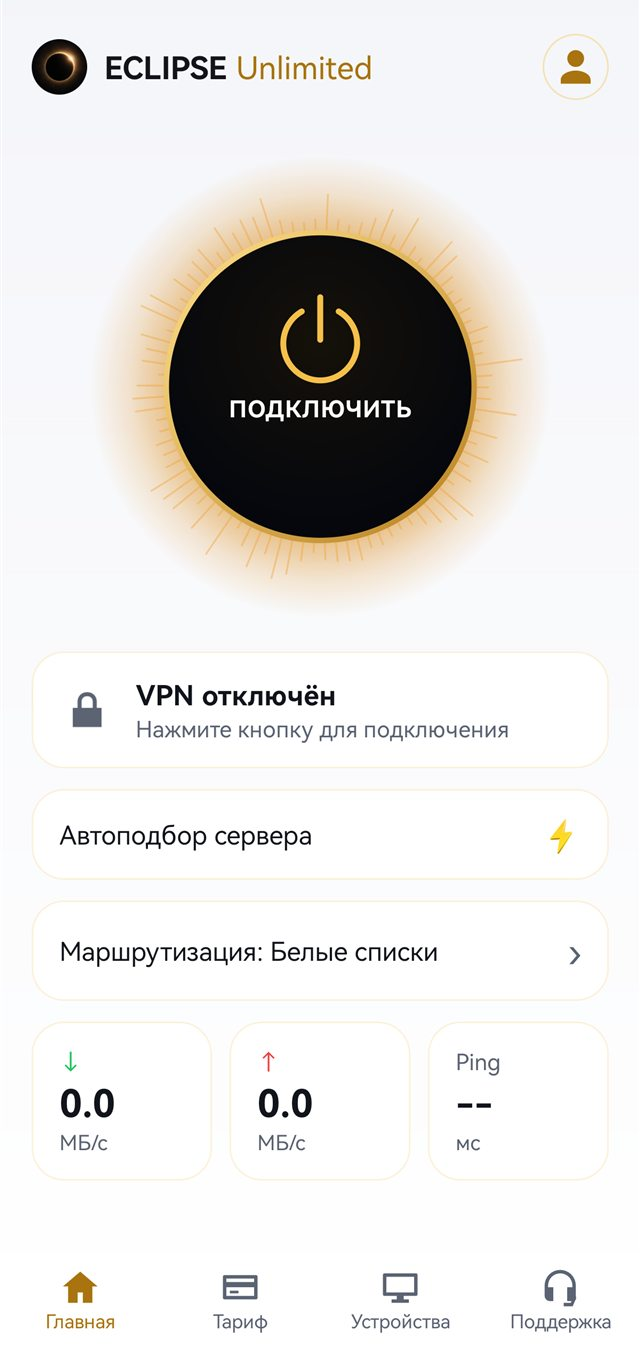
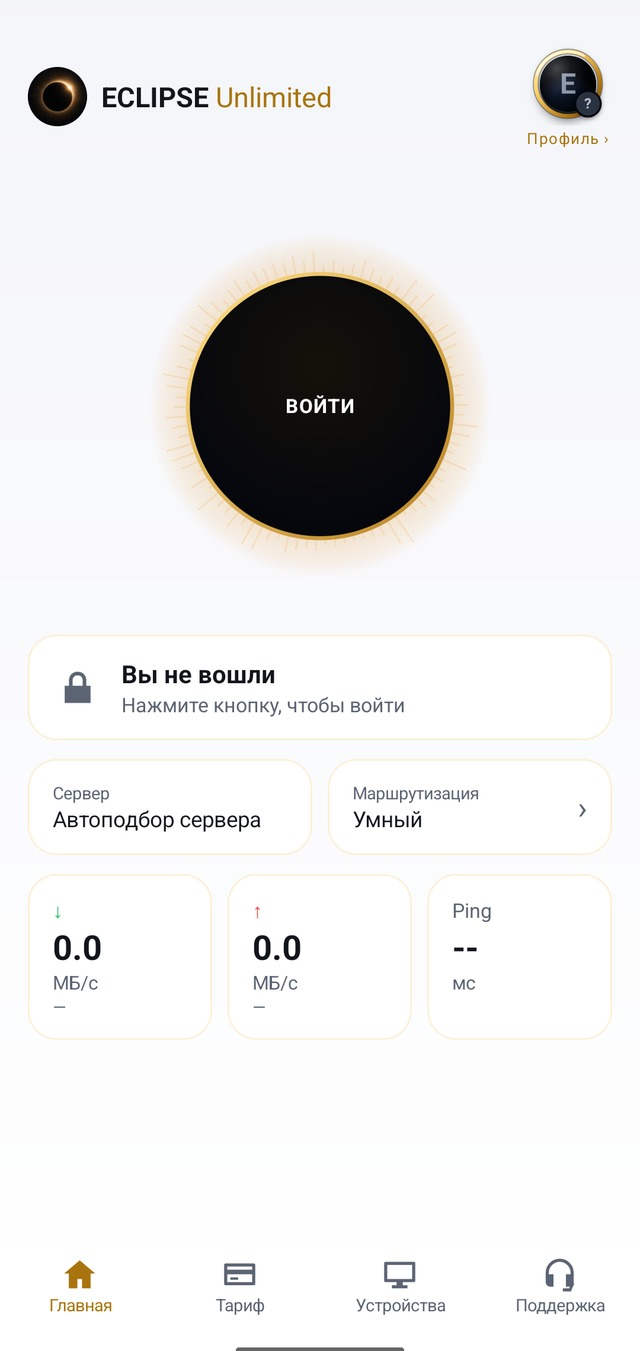
site: новые скриншоты приложения 2.17 без персональных данных
Обновлены home/connected/modes/light/login: новый профиль, протокол подключения, светлая тема; у подключённого экрана убран личный аватар. Добавлен подзаголовок секции скриншотов и обновлена подпись connected; cache-busting ?v=2170.

diff --git a/bot/webapp/templates/app.html b/bot/webapp/templates/app.html
@@ -760,7 +760,7 @@ a:focus-visible, summary:focus-visible, button:focus-visible {
             <div class="hero-glow-ring" aria-hidden="true"></div>
             <div class="hero-glow-ring ring2" aria-hidden="true"></div>
             <div class="phone">
-                <img src="/static/app-preview/connected.jpg" alt="Экран приложения ECLIPSE Unlimited с активным VPN-подключением">
+                <img src="/static/app-preview/connected.jpg?v=2170" alt="Экран приложения ECLIPSE Unlimited с активным VPN-подключением">
             </div>
             <div class="float-chip chip-1">
                 <svg width="16" height="16" viewBox="0 0 24 24" fill="none" stroke="#57d364" stroke-width="2.2" stroke-linecap="round" stroke-linejoin="round" aria-hidden="true"><path d="M13 2 3 14h7l-1 8 10-12h-7l1-8z"/></svg>
@@ -891,6 +891,7 @@ a:focus-visible, summary:focus-visible, button:focus-visible {
             <div>
                 <div class="section-tag reveal">Приложение</div>
                 <h2 class="section-title reveal">Посмотрите, как оно выглядит</h2>
+                <p class="section-sub reveal">Новый профиль, настройки по группам и протокол подключения прямо на главном экране.</p>
             </div>
             <div class="shots-nav reveal">
                 <button type="button" id="shotsPrev" aria-label="Предыдущий скриншот">‹</button>
@@ -898,11 +899,11 @@ a:focus-visible, summary:focus-visible, button:focus-visible {
             </div>
         </div>
         <div class="shots reveal" role="region" aria-roledescription="карусель" aria-label="Скриншоты приложения" tabindex="0">
-            <figure class="shot"><img src="/static/app-preview/home.jpg" alt="Главный экран приложения" loading="lazy"><figcaption>Скорость и пинг всегда на виду</figcaption></figure>
-            <figure class="shot"><img src="/static/app-preview/connected.jpg" alt="Экран подключённого VPN" loading="lazy"><figcaption>Включается одной кнопкой</figcaption></figure>
-            <figure class="shot"><img src="/static/app-preview/modes.jpg" alt="Выбор маршрутизации" loading="lazy"><figcaption>Маршрутизация под вашу сеть</figcaption></figure>
-            <figure class="shot"><img src="/static/app-preview/light.jpg" alt="Светлая тема приложения" loading="lazy"><figcaption>Светлая и тёмная тема</figcaption></figure>
-            <figure class="shot"><img src="/static/app-preview/login.jpg" alt="Вход в приложение" loading="lazy"><figcaption>Вход через Google, Яндекс или телефон</figcaption></figure>
+            <figure class="shot"><img src="/static/app-preview/home.jpg?v=2170" alt="Главный экран приложения" loading="lazy"><figcaption>Скорость и пинг всегда на виду</figcaption></figure>
+            <figure class="shot"><img src="/static/app-preview/connected.jpg?v=2170" alt="Экран подключённого VPN с протоколом" loading="lazy"><figcaption>Подключение и протокол — на виду</figcaption></figure>
+            <figure class="shot"><img src="/static/app-preview/modes.jpg?v=2170" alt="Выбор маршрутизации" loading="lazy"><figcaption>Маршрутизация под вашу сеть</figcaption></figure>
+            <figure class="shot"><img src="/static/app-preview/light.jpg?v=2170" alt="Светлая тема приложения" loading="lazy"><figcaption>Светлая и тёмная тема</figcaption></figure>
+            <figure class="shot"><img src="/static/app-preview/login.jpg?v=2170" alt="Вход в приложение" loading="lazy"><figcaption>Вход через Google, Яндекс или телефон</figcaption></figure>
         </div>
     </section>
 
